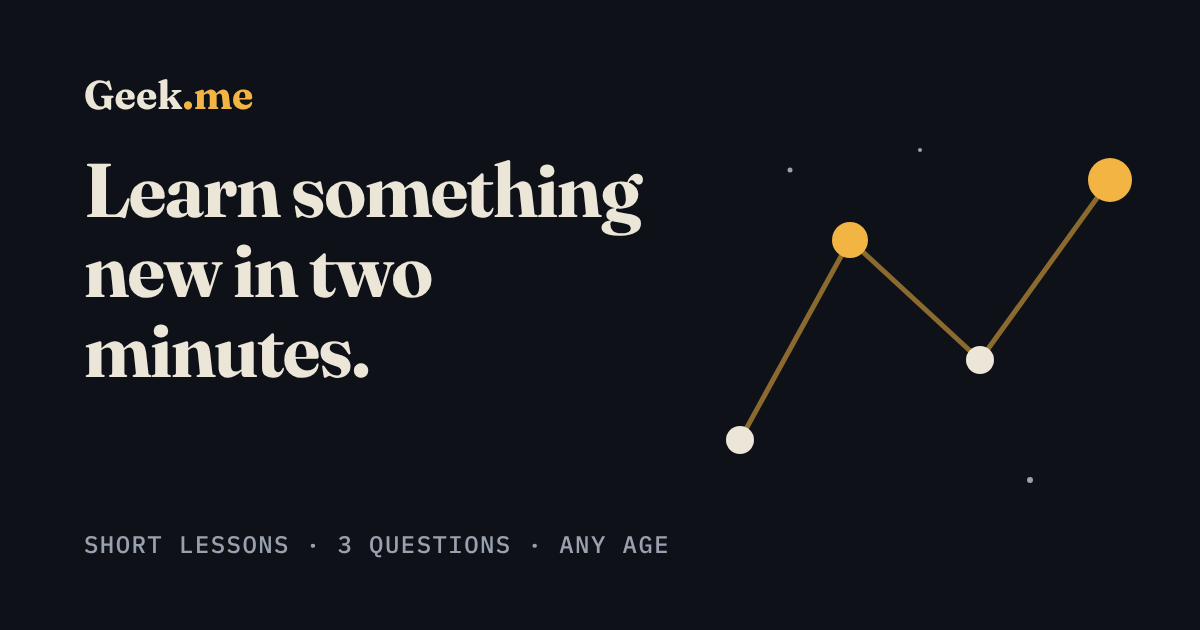
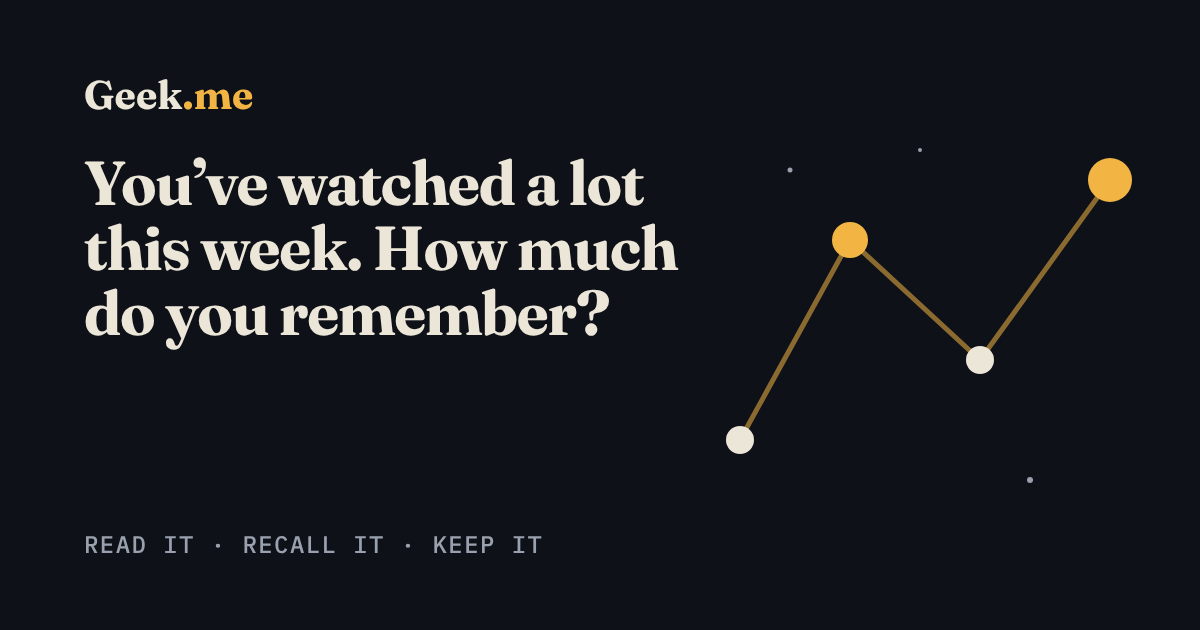
Reframe the landing page around remembering, with a Why page
- Opening screen: "You've watched a lot this week. How much do you
  remember?" and a plain explanation of how Geek.me makes ideas stick
- New "Why Geek.me" page (#/why) setting out the gap: short-form video
  feels like learning but little is kept, attention is fragmenting, and
  reading for pleasure is falling; and what helps (recall and spacing).
  Every claim is cited, with sources listed on the page
- Link previews and the preview image use the new message
- Research notes added to docs/growth-plan.md

Claude-Session: https://claude.ai/code/session_01W6kTyKxvrFXx17Dgw75LsE

Changed region(s): [[0.0617, 0.2413, 0.5858, 0.6032], [0.0617, 0.8444, 0.555, 0.8746]]

diff --git a/src/screens/Why.tsx b/src/screens/Why.tsx
@@ -1,0 +1,122 @@
+/*
+ * The case for Geek.me, with sources. Keep every claim tied to a citation below,
+ * and keep figures as the sources state them (see docs/growth-plan.md for the research notes).
+ */
+const SOURCES = [
+  {
+    id: 1,
+    text: "Fragmented learning from short videos modulates neural activity and connectivity during memory retrieval. npj Science of Learning, 2025.",
+    url: "https://www.nature.com/articles/s41539-025-00399-y",
+  },
+  {
+    id: 2,
+    text: "Chiossi et al. Short-form videos degrade our capacity to retain intentions. CHI 2023.",
+    url: "https://arxiv.org/abs/2302.03714",
+  },
+  {
+    id: 3,
+    text: "Gloria Mark, interviewed by the University of California on her research for Attention Span (2023).",
+    url: "https://www.universityofcalifornia.edu/news/how-sharpen-your-attention-and-meet-your-goals-2024",
+  },
+  {
+    id: 4,
+    text: "Carpenter et al. Appearances can be deceiving: instructor fluency increases perceptions of learning without increasing actual learning. Psychonomic Bulletin & Review, 2013.",
+    url: "https://digest.bps.org.uk/2013/05/14/engaging-lecturers-can-breed-overconfidence/",
+  },
+  {
+    id: 5,
+    text: "UCL and University of Florida, iScience, 2025: proportion of Americans reading for pleasure fell by 40% over 20 years.",
+    url: "https://www.ucl.ac.uk/news/2025/aug/proportion-americans-reading-pleasure-fell-40-over-20-years",
+  },
+  {
+    id: 6,
+    text: "National Literacy Trust. Children and young people's reading in 2025.",
+    url: "https://literacytrust.org.uk/reading-for-pleasure",
+  },
+  {
+    id: 7,
+    text: "Roediger & Karpicke. Test-enhanced learning. Psychological Science, 2006.",
+    url: "https://psychology.ecu.edu/wp-content/pv-uploads/sites/216/2019/03/Roediger-Karpicke-2006.pdf",
+  },
+];
+
+const Cite = ({ n }: { n: number }) => (
+  <sup>
+    <a href={`#source-${n}`} onClick={(e) => (e.preventDefault(), document.getElementById(`source-${n}`)?.scrollIntoView())}>
+      {n}
+    </a>
+  </sup>
+);
+
+export function Why() {
+  return (
+    <article className="stack legal why">
+      <button className="icon-btn" onClick={() => history.back()} aria-label="Back">
+        ←
+      </button>
+      <h1>Why Geek.me</h1>
+      <p className="lede">We take in more than ever, and keep very little of it.</p>
+
+      <h2>Watching isn't the same as learning</h2>
+      <p>
+        A short video can make an idea feel clear. That feeling is real, but it isn't the same as remembering. In a 2025 study, people who learned
+        material as a string of short clips remembered less of it than people who watched the same content as one longer video.
+        <Cite n={1} /> Another study found that after a session of TikTok, people were worse at remembering to do something they'd planned, which
+        wasn't true after the same time on Twitter or YouTube.
+        <Cite n={2} />
+      </p>
+      <p>
+        Our attention is moving faster too. Gloria Mark, who has measured how long people stay on one screen before switching, found it fell from
+        about two and a half minutes in 2004 to about 47 seconds in recent years.
+        <Cite n={3} />
+      </p>
+      <p>
+        And how something is presented changes how much we <em>think</em> we learned, more than how much we did. When students watched a smooth,
+        confident speaker, they expected to remember more than students who watched a hesitant one. In the test, both groups did the same.
+        <Cite n={4} />
+      </p>
+
+      <h2>Curiosity needs room</h2>
+      <p>
+        Reading for its own sake is fading. On an average day in 2023, 16% of Americans read for pleasure, down about 40% in twenty years.
+        <Cite n={5} /> In the UK, only about a third of 8 to 18-year-olds say they enjoy reading in their free time, the lowest level in twenty years
+        of asking.
+        <Cite n={6} />
+      </p>
+      <p>
+        Curiosity hasn't gone anywhere. People still want to know why the sky is blue or how a fridge works. What's missing is a habit that turns a
+        passing question into something you actually know.
+      </p>
+
+      <h2>What makes things stick</h2>
+      <p>
+        Decades of research point the same way: trying to recall something is what makes it last. In a well-known experiment, students who read a
+        passage once and then practised recalling it remembered much more a week later than students who reread it several times.
+        <Cite n={7} /> Coming back to it after a gap, just as it starts to fade, helps even more.
+      </p>
+
+      <h2>So Geek.me works like this</h2>
+      <ul>
+        <li>One idea at a time, short enough to read in two minutes, with nothing to scroll past.</li>
+        <li>Three questions straight after, so you recall it rather than just reading it.</li>
+        <li>The questions come back days later, then weeks later, so it stays with you.</li>
+        <li>When today's lesson is done, you're done. There's no feed to keep you going.</li>
+      </ul>
+      <p>
+        Videos are a fine way to spark an interest. Geek.me is for what comes next: knowing it a week from now, and being able to explain it to
+        someone else.
+      </p>
+
+      <h2>Sources</h2>
+      <ol className="source-list">
+        {SOURCES.map((s) => (
+          <li key={s.id} id={`source-${s.id}`}>
+            <a href={s.url} target="_blank" rel="noopener noreferrer">
+              {s.text}
+            </a>
+          </li>
+        ))}
+      </ol>
+    </article>
+  );
+}

diff --git a/index.html b/index.html
@@ -4,10 +4,10 @@
     <meta charset="utf-8" />
     <meta name="viewport" content="width=device-width, initial-scale=1, viewport-fit=cover" />
     <title>Geek.me</title>
-    <meta name="description" content="Two-minute lessons on science, history, the mind and more, with three questions each and spaced review so you remember. Free, for any age." />
+    <meta name="description" content="One idea at a time: a two-minute read, three questions that make you recall it, and reviews timed so it sticks. Science, history, the mind and more, for any age." />
     <meta property="og:type" content="website" />
-    <meta property="og:title" content="Geek.me: learn something new in two minutes" />
-    <meta property="og:description" content="A short lesson, three questions, and a daily question everyone gets. Free, for any age." />
+    <meta property="og:title" content="Geek.me: learn one thing and actually remember it" />
+    <meta property="og:description" content="You've watched a lot this week. How much do you remember? Two-minute lessons with questions that make them stick." />
     <meta property="og:url" content="https://geekme.io/" />
     <meta property="og:image" content="https://geekme.io/og.png" />
     <meta property="og:image:width" content="1200" />

diff --git a/src/screens/Onboarding.tsx b/src/screens/Onboarding.tsx
@@ -58,10 +58,14 @@ export function Onboarding() {
 
       {step === "start" && (
         <section className="stack">
-          <h1>Learn something new in two minutes.</h1>
+          <h1>You've watched a lot this week. How much do you remember?</h1>
           <p className="lede">
-            Read a short lesson, answer three questions, and you're done. Science, history, how your brain works and more.
+            Short videos make learning feel easy, but we keep surprisingly little of what we scroll past. Geek.me gives you one idea at a time:
+            a two-minute read, then three questions that make you recall it. It comes back days later, just as you'd start to forget.
           </p>
+          <a className="link-btn" href="#/why">
+            Why we built Geek.me, and the research behind it
+          </a>
           <span className="label">Who's it for?</span>
           <div className="choices">
             <button className="choice" onClick={() => setStep("me-name")}>

diff --git a/src/App.tsx b/src/App.tsx
@@ -9,6 +9,7 @@ import { CardView, Collection } from "./screens/Collection";
 import { LessonPlayer } from "./screens/LessonPlayer";
 import { Onboarding } from "./screens/Onboarding";
 import { Privacy } from "./screens/Privacy";
+import { Why } from "./screens/Why";
 import { Profile } from "./screens/Profile";
 import { ProfilePicker } from "./screens/ProfilePicker";
 import { Review } from "./screens/Review";
@@ -38,12 +39,8 @@ export function App() {
       </main>
     );
   }
-  if (page === "privacy") {
-    return (
-      <main className="wrap solo">
-        <Privacy />
-      </main>
-    );
+  if (page === "privacy" || page === "why") {
+    return <main className="wrap solo">{page === "why" ? <Why /> : <Privacy />}</main>;
   }
   if (!account.setupDone) {
     // Keep an invite link for after set-up.

diff --git a/src/styles.css b/src/styles.css
@@ -1348,3 +1348,32 @@ button {
   letter-spacing: 0.12em;
   color: var(--ink);
 }
+
+/* ---------- why page ---------- */
+.why sup {
+  font: 600 11px var(--mono);
+  margin-left: 2px;
+}
+.why sup a {
+  color: var(--accent);
+  text-decoration: none;
+}
+.source-list {
+  margin: 0;
+  padding-left: 20px;
+  display: flex;
+  flex-direction: column;
+  gap: 8px;
+}
+.source-list li {
+  font: 14px/1.5 var(--sans);
+  scroll-margin-top: 80px;
+}
+.source-list a {
+  color: var(--muted);
+  text-underline-offset: 3px;
+}
+.onboarding .link-btn {
+  align-self: flex-start;
+  font-size: 15px;
+}

diff --git a/docs/growth-plan.md b/docs/growth-plan.md
@@ -43,6 +43,18 @@ October 2026. A working plan, not a forecast. Numbers from outside sources are m
 
 **What we built from this:** an under-13 mode has no external links. The Circles copy says children's circles will be family or class groups set up by an adult.
 
+### The gap Geek.me addresses
+
+We take in more than ever and keep very little, because nothing asks us to remember. The evidence behind the landing page and the in-app "Why Geek.me" page (`#/why`):
+
+- People who learned material as a series of short clips remembered less than those who watched the same content as one longer video ([npj Science of Learning, 2025](https://www.nature.com/articles/s41539-025-00399-y)).
+- After TikTok, but not Twitter or YouTube, people were worse at remembering to do something they'd planned ([Chiossi et al., CHI 2023](https://arxiv.org/abs/2302.03714)). Secondary sources quote "about 40%"; the abstract gives no figure, so don't use it.
+- Average attention on one screen fell from about 2.5 minutes (2004) to about 47 seconds ([Gloria Mark, UC](https://www.universityofcalifornia.edu/news/how-sharpen-your-attention-and-meet-your-goals-2024)). This measures switching, not a biological limit.
+- A fluent presenter raises how much people *think* they learned, not how much they did ([Carpenter et al., 2013](https://digest.bps.org.uk/2013/05/14/engaging-lecturers-can-breed-overconfidence/)).
+- Americans reading for pleasure on an average day fell to 16% in 2023, about 40% lower than 20 years earlier ([UCL / iScience, 2025](https://www.ucl.ac.uk/news/2025/aug/proportion-americans-reading-pleasure-fell-40-over-20-years)). Only 32.7% of UK 8–18-year-olds enjoy reading in their free time, a 20-year low ([National Literacy Trust, 2025](https://literacytrust.org.uk/reading-for-pleasure)).
+- Recalling beats rereading for long-term memory ([Roediger & Karpicke, 2006](https://psychology.ecu.edu/wp-content/pv-uploads/sites/216/2019/03/Roediger-Karpicke-2006.pdf)).
+- Left out on purpose: claims about children asking far fewer questions at school. The figures found only came from secondary sources.
+
 ## Who it's for, in order
 
 | Audience | Why they'd care | Where to reach them |
